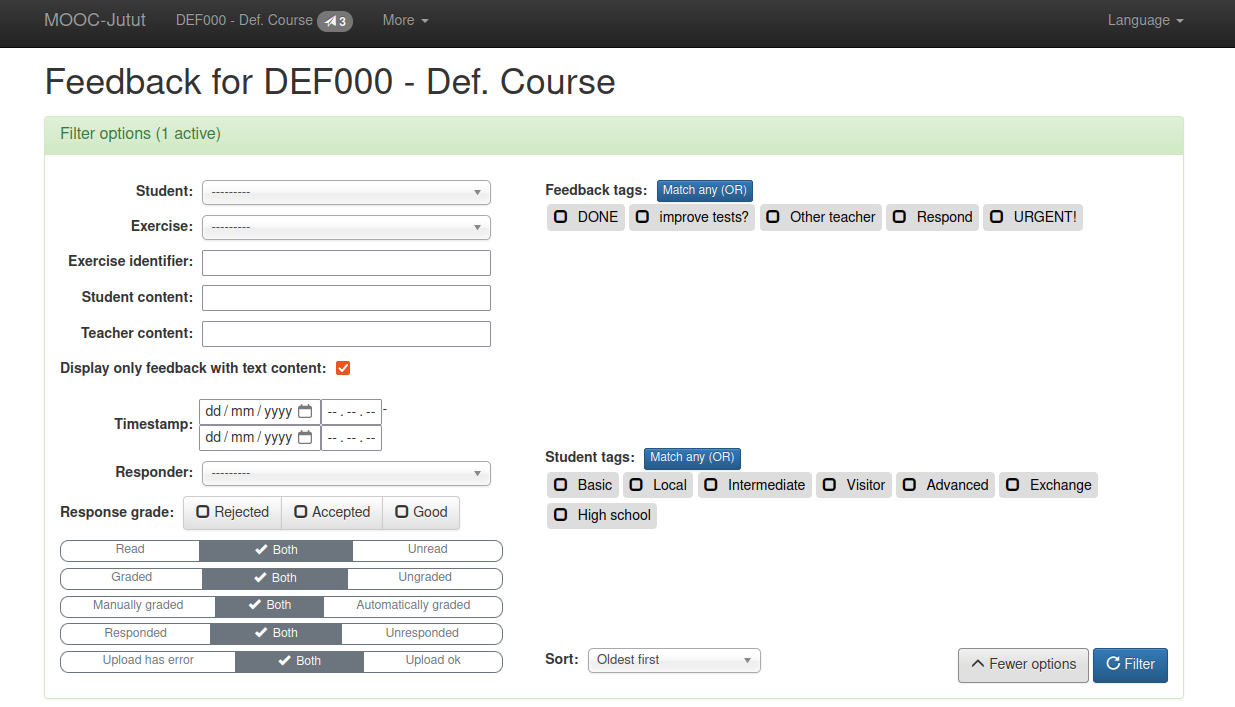
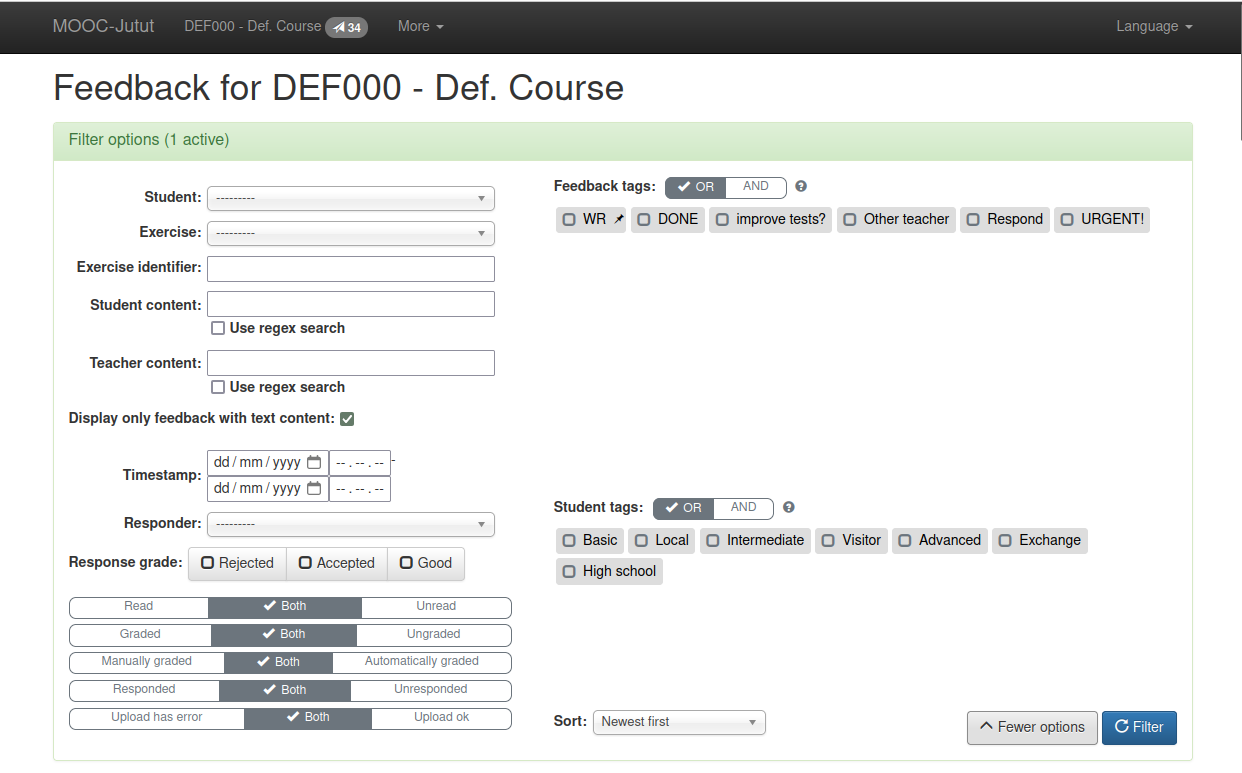
Update Jutut documentation
Update documentation to reflect changes made during summer 2024.
Add info about popover buttons (conversation preview, background,
points).
Add info about message styling.
Update info about colortag include-exclude filters.
Include information about pinning colortags.
Update images.
Add info about student tags updating once a day.

diff --git a/jutut/features_and_hints.rst b/jutut/features_and_hints.rst
@@ -12,11 +12,13 @@ You can access most of the other features through the menu by clicking on **More
 
 .. figure:: /images/jutut/unread_with_moremenu_open.png
     :width: 100%
+    :alt: The page displays unread feedback. The button "More" in the navigation bar has been pressed, and the dropdown menu it toggles is open.
 
 Both the green "Filter feedback" button on the page displaying unread feedback and the link with the same name in the *More* menu take you to the page where you can see all feedback and filter/search them.
 
 .. figure:: /images/jutut/feedbacklist_overview.png
     :width: 100%
+    :alt: The filtering page with the filter bar displaying the filters: "Student", "Exercise", "Exercise identifier", "Student content", "Teacher content", "Display only feedback with text content", "Feedback tags", and "Sort". There are buttons "More options" and "Filter". Beneath the filter bar, there is a pagination menu and some feedback panels.
 
     *Overview of the feedback filtering page.*
 
@@ -28,45 +30,153 @@ These can be accessed by clicking the *More options* button in the filter view.
 
 .. figure:: /images/jutut/feedbackfilter_expanded.png
     :width: 100%
+    :alt: The filter view including the additional filters of "Timestamp", "Responder", "Response grade", flag filters (Read/Both/Unread, Graded/Both/Ungraded, Manually graded / Both / Automatically graded, Responded/Both/Unresponded, Upload has error / Both / Upload ok) as well as the student tag filter.
 
     *Feedback filtering page with the additional filter options visible.*
+
+Feedback message view
+---------------------
 
 The feedback message panel displays student information, exercise information, as well as the feedback response and a text box for a teacher to respond to the feedback.
 Information about `feedback tags`_ and `context tags`_ can be found under their own headings.
 
 .. figure:: /images/jutut/feedback_message_annotated.png
     :width: 100%
+    :alt: Feedback message with different zones annotated. The panel heading contains student information. Beneath it is exercise information and context tags. On the right are feedback tags.
 
     *Feedback panel with annotations.*
+
+Student information
+...................
+
+* The student name is a link to the student page in A+.
+* The student tags are listed after the student name
+* The filter button in the student info updates the page to show all the conversations with that particular student.
+* The button with an eye opens a popover, which shows all the converstations with the particular student
+  (i.e. the same content as the previous button, but in a preview mode without updating the page)
+
+  .. hidden-block:: conv-popover
+    :label: Show/hide image of conversation preview popover
+
+    .. figure:: /images/jutut/feedback_conv_prev.png
+        :width: 70%
+        :alt: The conversation preview popover appears on the right side of the page and shows the conversations with the student compactly.
+
+* The *Background* button shows a popover of the student's response to the background questionnaire (enrollment exercise)
+
+  .. hidden-block:: conv-background
+    :label: Show/hide image of background popover
+
+    .. figure:: /images/jutut/feedback_conv_prev.png
+        :width: 70%
+        :alt: The background popover appears on the right side of the page and shows the student's response to the background questionnaire compactly. Only the questions the student has responded to and the student's responses are visible.
+
+* The *Points* button shows a popover of the student's points for the entire course, the module and the chapter.
+
+  .. hidden-block:: points
+    :label: Show/hide image of points popover
+
+    .. figure:: /images/jutut/feedback_points.png
+        :width: 70%
+        :alt: The points popover appears on the right side of the page and shows the student's points as progress bars for the point categories (for the entire course), as well as the module and the chapter. The progress bars are color coded.
+
+The popovers are opened when hovered, clicked or focused (keyboard navigation).
+
+.. hint::
+    If you need to scroll a popover, make sure to open the popover by clicking or moving the focus onto the button.
+    You can scroll the popover when your cursor is on top of it.
+    If you open a popover by hovering on top of the button, the popover closes as soon as you move your cursor away from the button (even if onto the popover).
+
+Message display
+...............
 
 By default, the feedback responses are displayed compactly with only the text responses being shown.
 If you want to see the responses to other questions, the question keys, or what the questions actually asked, you can expand the message by clicking on the timestamp / down icon.
 
 .. figure:: /images/jutut/feedback_message_expanded.png
     :width: 100%
+    :alt: The feedback message is expanded and displays all the field names and responses to them.
+
+    *The expanded version of the feedback message.*
 
 .. hint::
 
-    If you want to send another member of course staff a link directly to a feedback conversation, copy the link from the "Show feedback for this exercise by this student" button.
+    If you want to send another member of course staff a link directly to a feedback conversation, you can copy the link to you clipboard by pressing "Copy link to this conversation".
 
     .. figure:: /images/jutut/feedback_link.png
         :width: 100%
         :alt: The button for getting the link is after the chapter title and the button for filtering feedback for the given exercise.
 
 You as the teacher can respond to student feedback through the Jutut teacher portal.
-The student receives a notification in A+, but also can see the conversation history at the questionnaire embedded in the material. The student can respond by sending another submission.
+The teacher responses support HTML styling.
+You can use the styling buttons to automatically provide correct tags for bold, italics, monospace, and hyperlinks.
+Also keyboard shortcuts are supported for bold (CTRL/⌘ + B), italics (CTRL/⌘ + I), and underline (CTRL/⌘ + U).
+You can preview how the message appears and that the styling works by clicking the preview button.
 
-.. figure:: /images/jutut/conversation_student.png
-    :width: 60%
+.. figure:: /images/jutut/message_editing.png
+    :width: 100%
+    :alt: The message editing view includes the potential html tags within the text. At the bottom of the response box, there is a toolbar of buttons for styling the message.
 
-    *The student perspective of the conversation.*
+    *The message response box in the editing view displays included html tags.
+    There is a button at the bottom left for previewing the content.*
+
+.. figure:: /images/jutut/message_preview.png
+    :width: 100%
+    :alt: The message preview displaying the content. The content appears in a span rather than a textbox, so it's not editable. The styling buttons are disabled.
+
+    *The message response box in the preview view displays the content as it would appear to a student.
+    There is a button at the bottom left for going back to the editing view.*
+
+If a feedback assignment is worth a non-zero amount of points and the text field is marked as required, the student is not automatically given the points for the feedback exercise.
+Instead, the teacher has to grade the submission.
+The "Respond" button is replaced by a segmented dropdown button that implements the grading.
+The default green "Good" option awards the student full points.
+If you wish to give half points or zero points, click on the dropdown and select either "Accepted" (half points) or "Rejected" (zero points).
+
+.. figure:: /images/jutut/feedback_grade_menu.png
+    :width: 100%
+    :alt: There is a green button with the text "Good" with a dropdown toggle next to it. There is a dropdown toggle which opens a dropdown menu with the options "Accepted" and "Rejected". The dropdown is open.
+
+    *The open grading dropdown.*
 
 The responses by the same student to the same questionnaire are grouped together and displayed as a conversation.
 
 .. figure:: /images/jutut/conversation_teacher.png
     :width: 100%
+    :alt: In the message panel there is a message from a student, the teacher response, and a second message from the student.
 
     *The teacher perspective of the conversation.*
+
+
+The student perspective
+.......................
+
+The student receives a notification in A+, but also can see the conversation history at the questionnaire embedded in the material. The student can respond by sending another submission.
+
+.. figure:: /images/jutut/conversation_student.png
+    :width: 60%
+    :alt: The student sees the feedback as an embedded exercise. The student's previous responses to the text field (and the teacher's response) appear above the text field.
+
+    *The student perspective of the conversation.*
+
+.. hint::
+    If the questionnaire has more than one text field, the teacher's responses are displayed by the "primary" feedback field.
+    If a text field has the flag `main-feedback` in the source rst, that field is considered the primary feedback field.
+    If the `main-feedback` flag doesn't appear, the last text field is considered the primary feedback field by default.
+
+    .. figure:: /images/jutut/conversation_student_multiple_text.png
+        :width: 70%
+        :alt: The student's responses are displayed above the respective text fields. The teacher response is displayed above the last text field.
+
+        *The student perspective of the conversation when there are multiple text fields.*
+
+    .. figure:: /images/jutut/conversation_teacher_multiple_text.png
+        :width: 100%
+        :alt: The student's responses are displayed in a single "bubble".
+
+        *The teacher's perspective of the conversation when there are multiple text fields.*
+
+    If a questionnaire has no text field, potential teacher responses are displayed at the beginning of the form.
 
 
 Feedback tags
@@ -80,22 +190,34 @@ You can create and edit feedback tags for the course instance the their own page
     :width: 100%
     :alt: Screenshot of the feedback tags management page titled "List of feedback tags"
 
+If you would like a feedback tag to be "pinned" to the top / displayed before the others, you can select the "Pin" option.
+This can be especially useful if you have a lot of feedback tags and use some very frequently.
 
-.. hint:: 
+.. hint::
 
-    If you have a lot of feedback tags and use some more often than others and would like them to be "pinned" to the top / displayed before the others, edit the slug so it begins with a small number (e.g. '0' or '1'), as the tags are ordered alphabetically by the slugs.
+    The tags are ordered alphabetically by the slugs.
+    If you have a lot of feedback tags and want to group some of them, you can begin their names or just the slugs with the same prefix.
 
 When filtering using feedback tags, you can select whether the conversations *should have* the specified tag (by clicking once on the tag button) or should *NOT* have the specified tag (by clicking twice on the tag button).
 (The feedback tag buttons in the filter view have three states: (0) inactive ->  (1) include -> (2) exclude -> back to (0) inactive.)
+The tag states can also be toggled in the *opposite* direction by using right click.
+
+.. figure:: /images/jutut/colortag_toggle_viz.png
+    :width: 60%
+    :alt: Normal clicks toggle button state from default to include to exclude to default. Right clicks toggle button state in the opposite direction: default to exclude to include to default.
 
 If you select multiple feedback tags to filter using the included criterion, you can specify whether it's enough that the conversations have *any* of the specified tags (use the **OR** operator) or if they should have *all* of the specified tags (use the **AND** operator).
 Despite which operator is being used, if a conversation has any of the tags specified to be excluded, it will not show up in the results.
 
 .. figure:: /images/jutut/feedbacktag_filtering.png
     :width: 100%
-    :alt: If the user selects that the *DONE* tag is to be excluded and the *Respond* tag to be included in the search, when filtering, conversations that have been tagged with the *Respond* tag and do not have the *DONE* tag will be returned.
+    :alt: The user has selected that the *DONE* tag and *Other teacher* tag are to be excluded, and the *Respond* tag and *URGENT!* tag are to be included in the search. The OR-option has been selected, so when filtering, conversations that have been tagged with the *Respond* tag or the *URGENT!* tag will appear as long as they don't also have either of the tags *DONE* nor *Other teacher*.
 
-    *Filter conversations excluding those with the DONE tag and including those with the Respond tag.*
+    *Filter conversations excluding those with the 'DONE' and 'Other teacher' tags and and including those with the 'Respond' or 'URGENT!' tag.
+    Since the OR-operator has been selected, results appear as long as they have at least one of the tags to be included.*
+
+Feedback tags can be imported also from other courses (or course instances) that are visible to you.
+This can be cone on the *Import feedback tags from another course* page (*More* -> *Import feedback tags*).
 
 
 Context tags
@@ -104,7 +226,7 @@ Context tags
 Some questions in the feedback questionnaires provide valuable context for understanding the textual feedback provided by students.
 The teacher can create context tags, which appear by feedback responses if they contain a specified response value to a certain question (with a given question key).
 
-These context tags can be created, edited and deleted for the course instance on their own page (*More* -> *Manage context tags*). 
+These context tags can be created, edited and deleted for the course instance on their own page (*More* -> *Manage context tags*).
 
 .. image:: /images/jutut/contexttags_manage.png
     :width: 100%
@@ -119,13 +241,14 @@ Now if a feedback questionnaire contains that question, the responses will conta
 
 .. hint::
     The response values can be defined as regex patterns, so you can have context tags appear if the responses contain certain content.
-    For example, if you would like, you can have different color timespent tags for different lengths of times. 
+    For example, if you would like, you can have different color timespent tags for different lengths of times.
 
 Student tags
 ------------
 
 Student tags are created, edited and added to students through A+ (*Edit course* -> *Tags*).
-In order to import the student tags to Jutut (or update the tags or taggings), you need to update them manually by pressing the **Update tags now** button on the *Update student tags* page (*More* -> *Update student tags*).
+For courses that have not ended yet, the student tags should automatically updated once a day (around 1 A.M.).
+You can also manually update the tags (i.e. update the tags or taggings from A+), by pressing the **Update tags now** button on the *Update student tags* page (*More* -> *Update student tags*).
 
 When filtering using student tags, the same things apply as described for filtering using feedback tags above.
 
